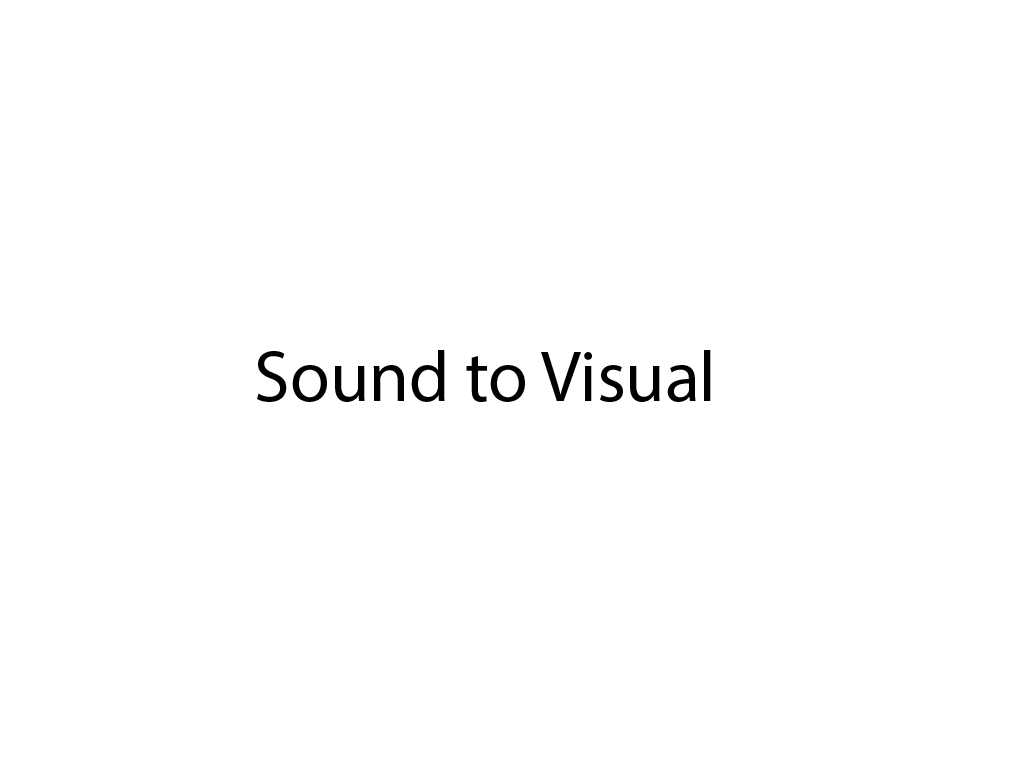
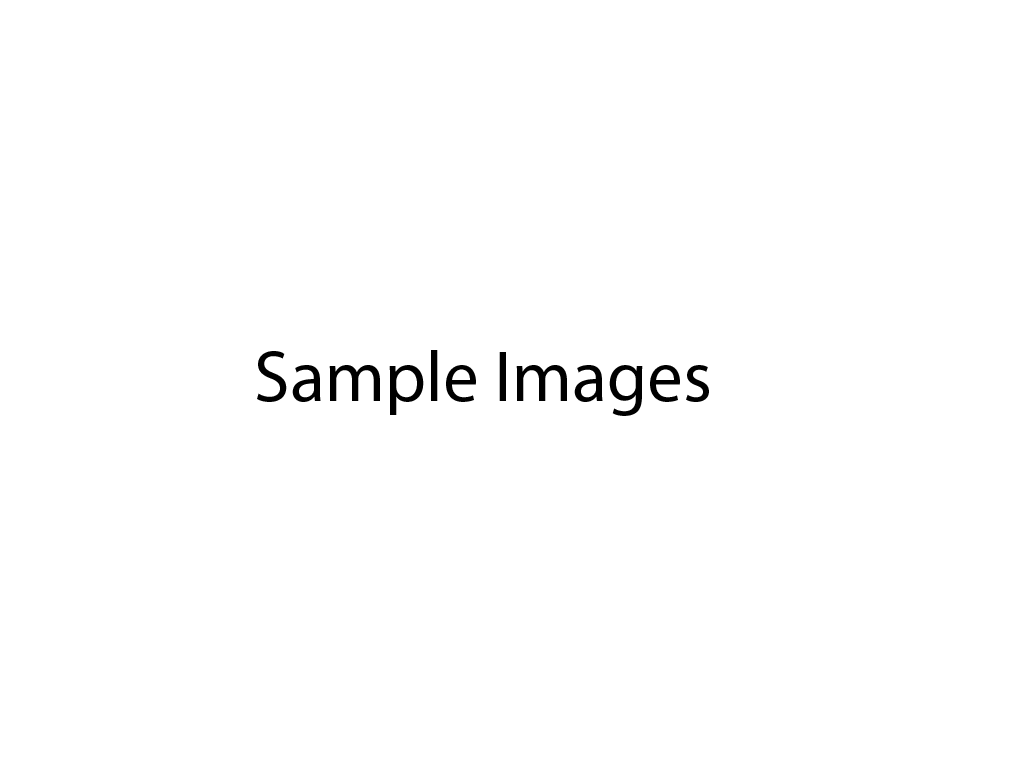
Changes to Pages

Changed region(s): [[0.2812, 0.4375, 0.7188, 0.5625]]

diff --git a/index.html b/index.html
@@ -9,8 +9,10 @@
         <h1><img src="logo.png" alt="Art Tunes" class="logo"></h1>
 </header>
 
+<body>
+
     <div class="img1">
-         <a href="soundtovisual.html">
+         <a href="samples.html">
          <img alt="Sound to Visual" src="placeholder1.png">
    <p>
           <a href="visualtosound.html">
@@ -18,7 +20,7 @@
      </div>
     
     
-<body>
+
 
 
     <footer> © ShellHacks 2020 </footer>

diff --git a/samples.html b/samples.html
@@ -8,14 +8,13 @@
 <header>
         <h1><img src="logo.png" alt="Art Tunes" class="logo"></h1>
 </header>
-
 <body>
-
-<form action="/action_page.php">
-  <input type="file" id="myFile" name="filename">
-  <input type="submit">
-</form>
     
+    
+    
+
+
+
+    <footer> © ShellHacks 2020 </footer>
 </body>
-<footer> © ShellHacks 2020 </footer>
 </html> 

diff --git a/styles.css b/styles.css
@@ -36,6 +36,11 @@ h1      {font-family: Tangerine, Helvetica, sans-serif;
         }
 
 
+        form {
+            text-align: center;
+        }
+
+
 footer { position: fixed;
     left: 0;
     bottom: 0;
